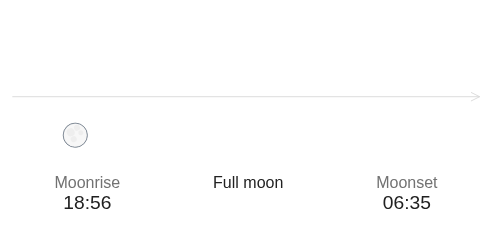
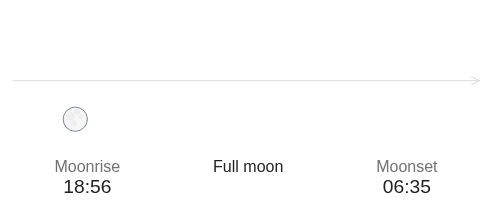
Collapse the graph's outer margin at the content edges (#220)
The graph's margin: 1em 0 is only meant to separate it from the field rows
above and below. When the graph is the first or last child (a graph-only card,
or one with no field header), that margin was a pure edge gap, so a graph-only
card needed two overrides to sit flush (card padding AND graph margin).

Reset the margin with :first-child / :last-child so it only applies between the
graph and its siblings. A graph-only card now sits flush against just the card
padding, so a single padding: 0 makes it edge-to-edge - no separate graph-margin
override. Cards with a field header above the graph are unchanged.

Section C of the manual dashboard updated to the single-gesture form; the
graph-only, moon-only and moon-only-no-sun visual baselines regenerated (those
cards lose the redundant outer margin). Default all-fields look unchanged.

diff --git a/src/cardStyles.ts b/src/cardStyles.ts
@@ -134,6 +134,19 @@ export default css`
     margin: 1em 0;
   }
 
+  /* The 1em only separates the graph from the field rows above and below it.
+     When the graph is the first or last child (e.g. a graph-only card) that
+     margin is a pure edge gap, so drop it there: the graph then sits flush
+     against the card padding and a single padding override makes it reach the
+     edges, no separate graph-margin override needed (#220). */
+  .horizon-card-graph:first-child {
+    margin-top: 0;
+  }
+
+  .horizon-card-graph:last-child {
+    margin-bottom: 0;
+  }
+
   .horizon-card-graph .horizon-card-daytime-past {
     fill: var(--hc-daytime-past-color);
     stroke: var(--hc-daytime-past-color);